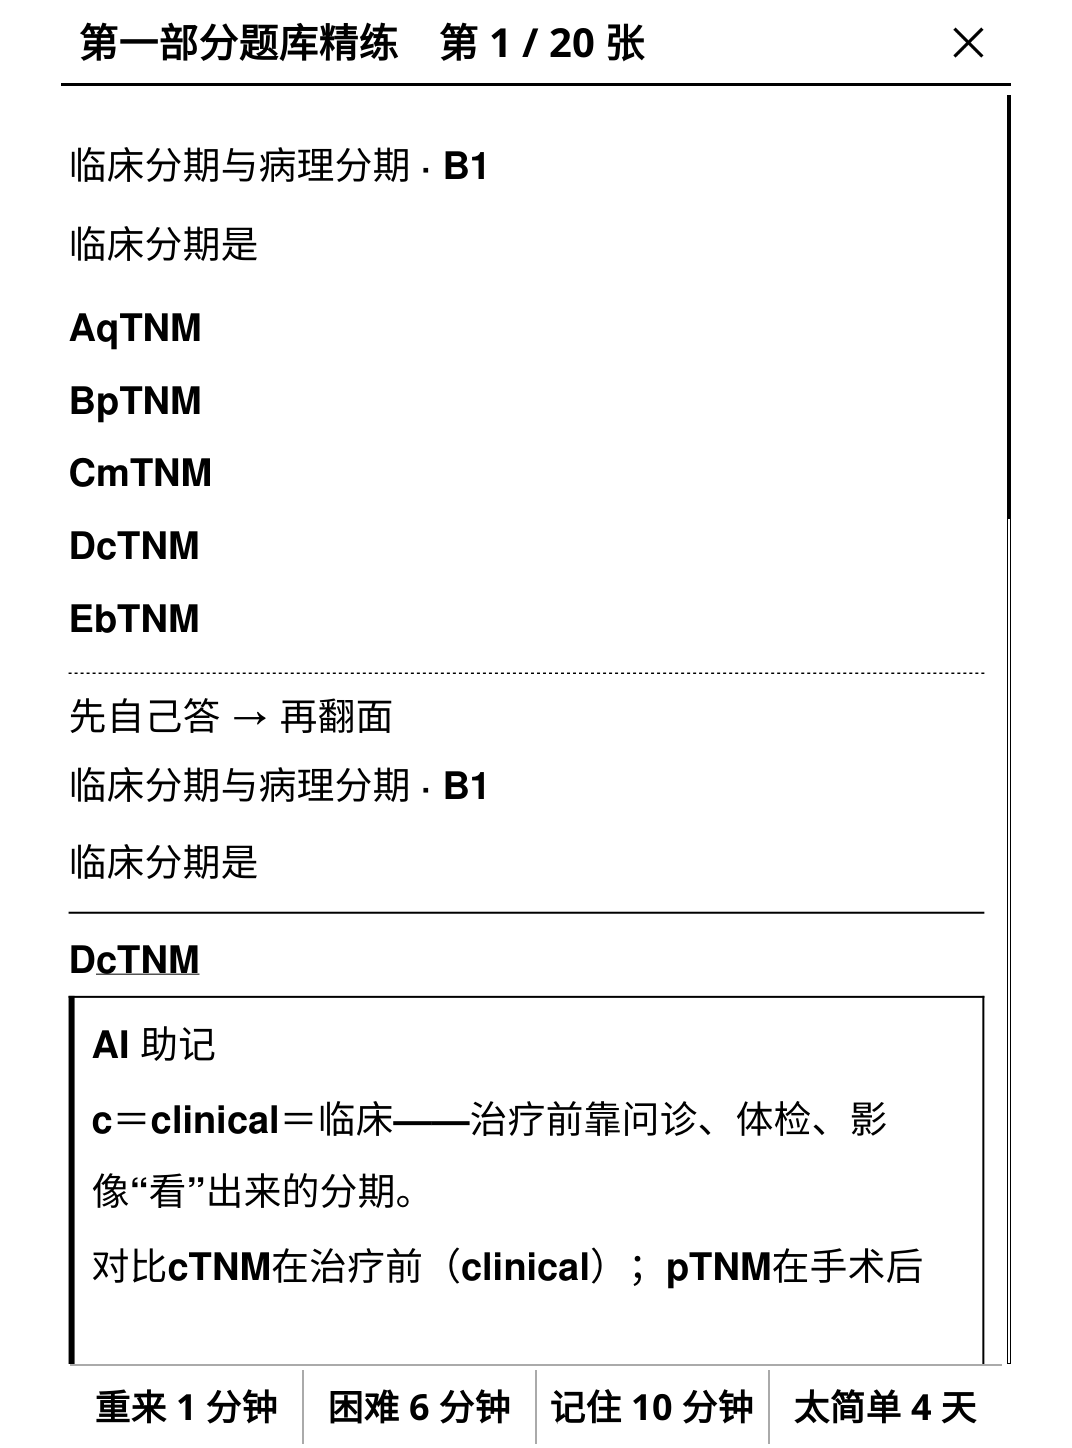
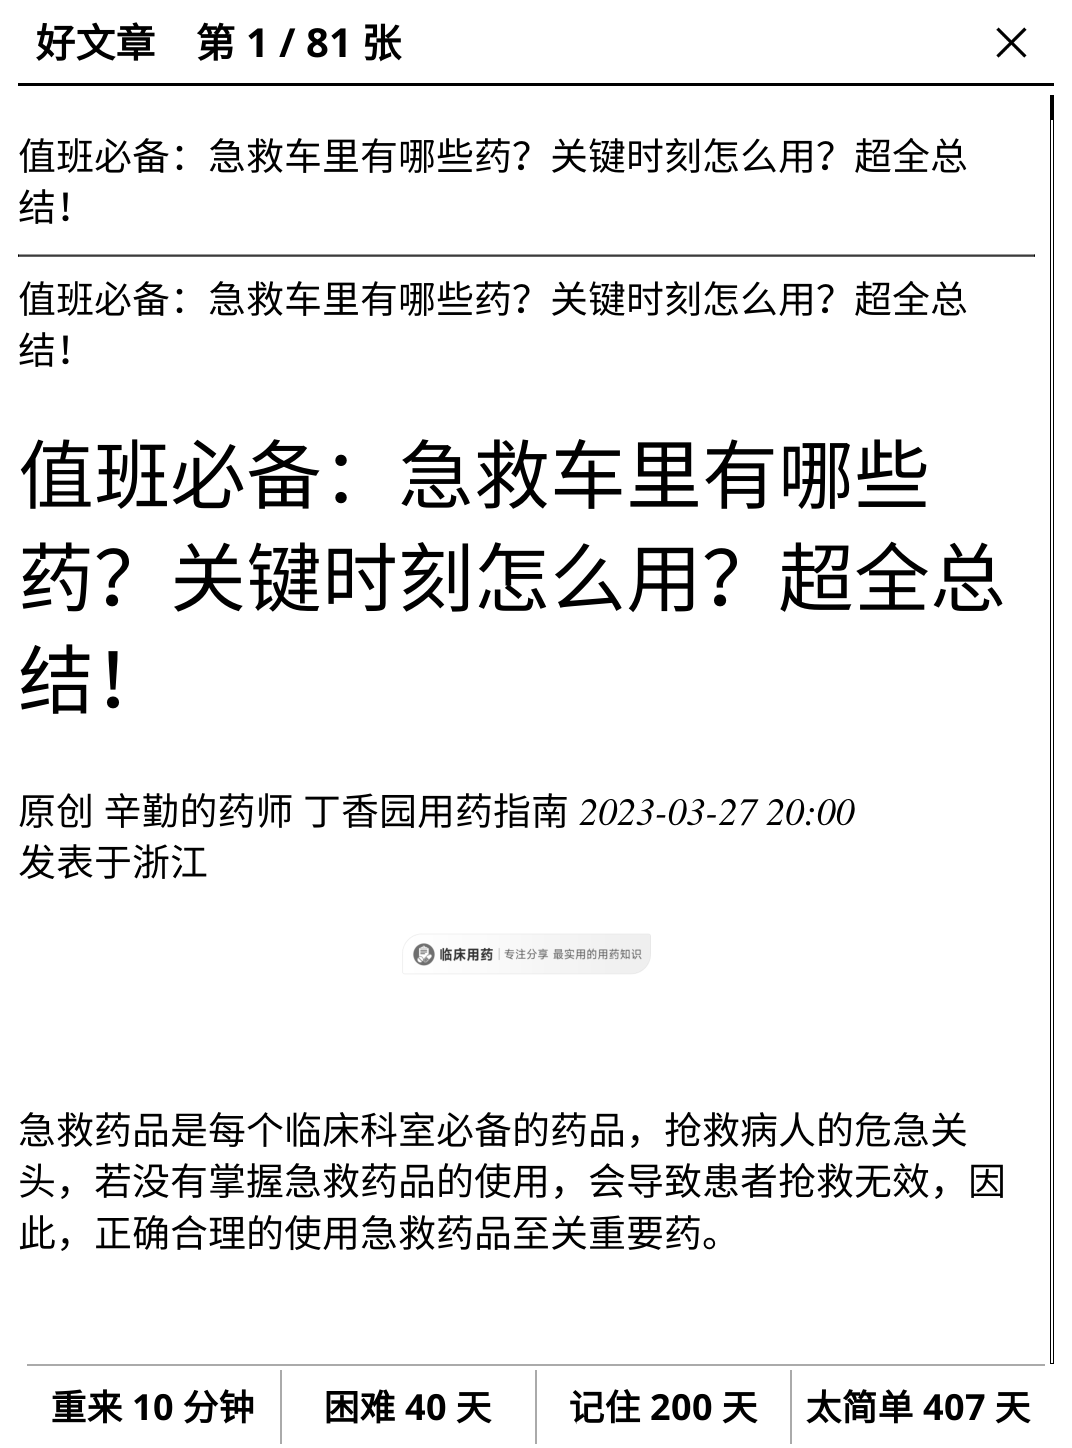
docs: refresh the screenshots for 0.3.5 and point the README at 0.3.5
The three images were taken on the firmware emulator at 1072x1448 after the
margin change, so they show the card column sitting on the same left edge as
the deck list (x=19 vs x=18) instead of the old 34 px inset.

diff --git a/README.md b/README.md
@@ -3,8 +3,8 @@
 **在 Kindle 上刷 Anki 卡片。** 电子墨水屏学习，进度同步云端，无缝衔接手机、电脑上的 Anki。
 
 <p align="center">
-  <img src="docs/screenshots/study-front.png" width="30%" alt="卡片正面：题干与五个选项">
-  <img src="docs/screenshots/study-answer.png" width="30%" alt="同一张卡翻面：正确答案、AI 助记和四个评分键">
+  <img src="docs/screenshots/study-front.png" width="30%" alt="卡片正面：题干">
+  <img src="docs/screenshots/study-answer.png" width="30%" alt="同一张卡翻面：正文与四个评分键">
   <img src="docs/screenshots/decklist.png" width="30%" alt="牌组列表与今天要背的总数">
 </p>
 
@@ -39,7 +39,7 @@
 
 **第 1 步 · 下载**
 
-去 [Releases](https://github.com/DrSkyeagle/kindlearnki/releases/latest) 下 `kindlearnki-koplugin-0.3.4.zip`，或者 `.tgz`。两个内容一模一样，zip 是给电脑解压用的，tgz 是给 `kterm` 直接解压用的。
+去 [Releases](https://github.com/DrSkyeagle/kindlearnki/releases/latest) 下 `kindlearnki-koplugin-0.3.5.zip`，或者 `.tgz`。两个内容一模一样，zip 是给电脑解压用的，tgz 是给 `kterm` 直接解压用的。
 
 **第 2 步 · 放进插件目录**
 
@@ -53,7 +53,7 @@
 
 ```bash
 cd /mnt/us/koreader/plugins
-tar -xzf /mnt/us/kindlearnki-koplugin-0.3.4.tgz
+tar -xzf /mnt/us/kindlearnki-koplugin-0.3.5.tgz
 ```
 
 放对了的样子：`koreader/plugins/kindlearnki.koplugin/main.lua` —— 也就是说，点进 `kindlearnki.koplugin` 这一层，能直接看到 `main.lua`。
